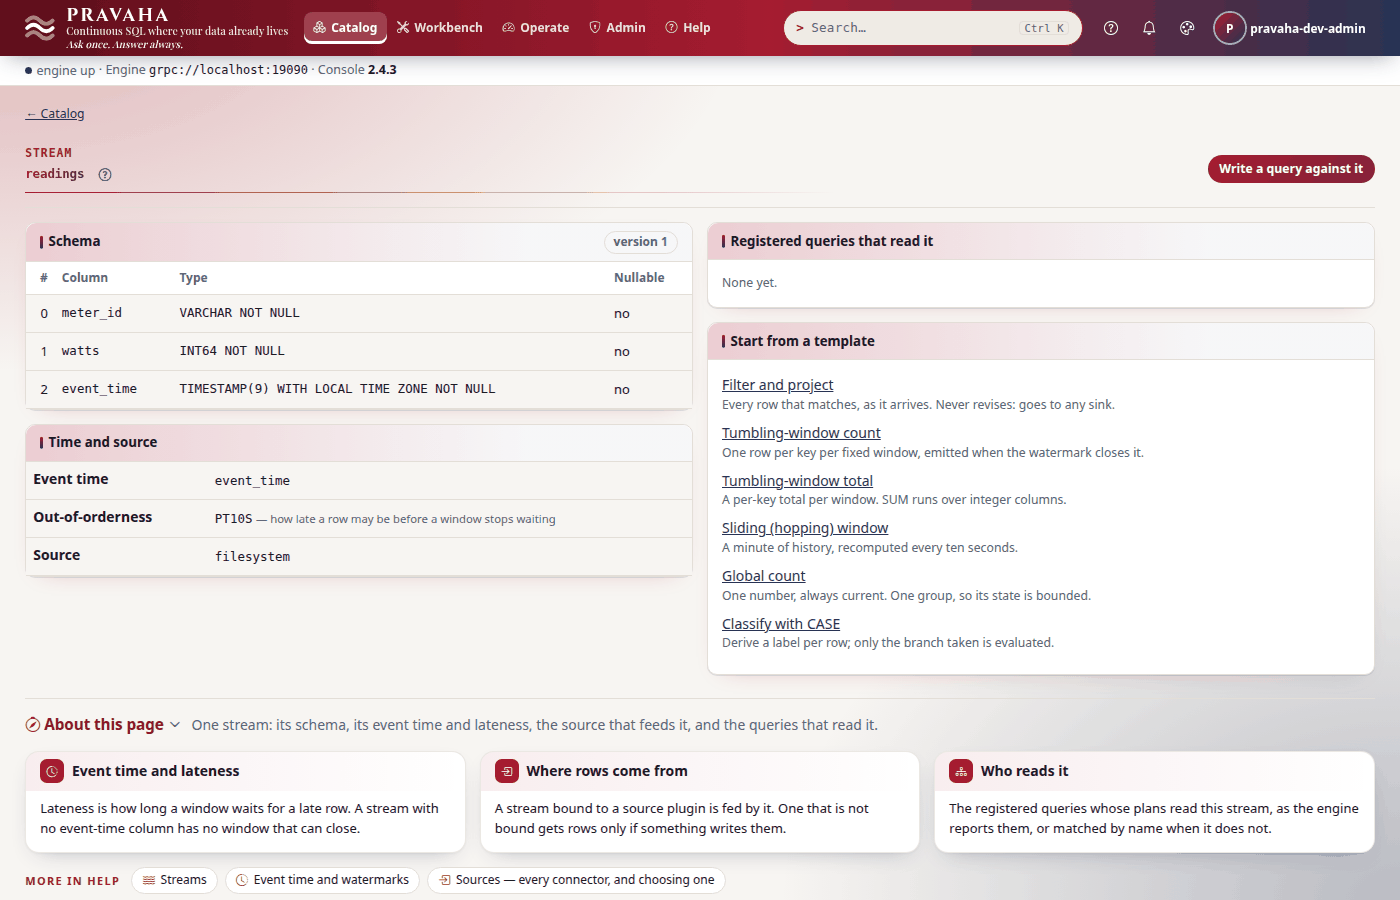
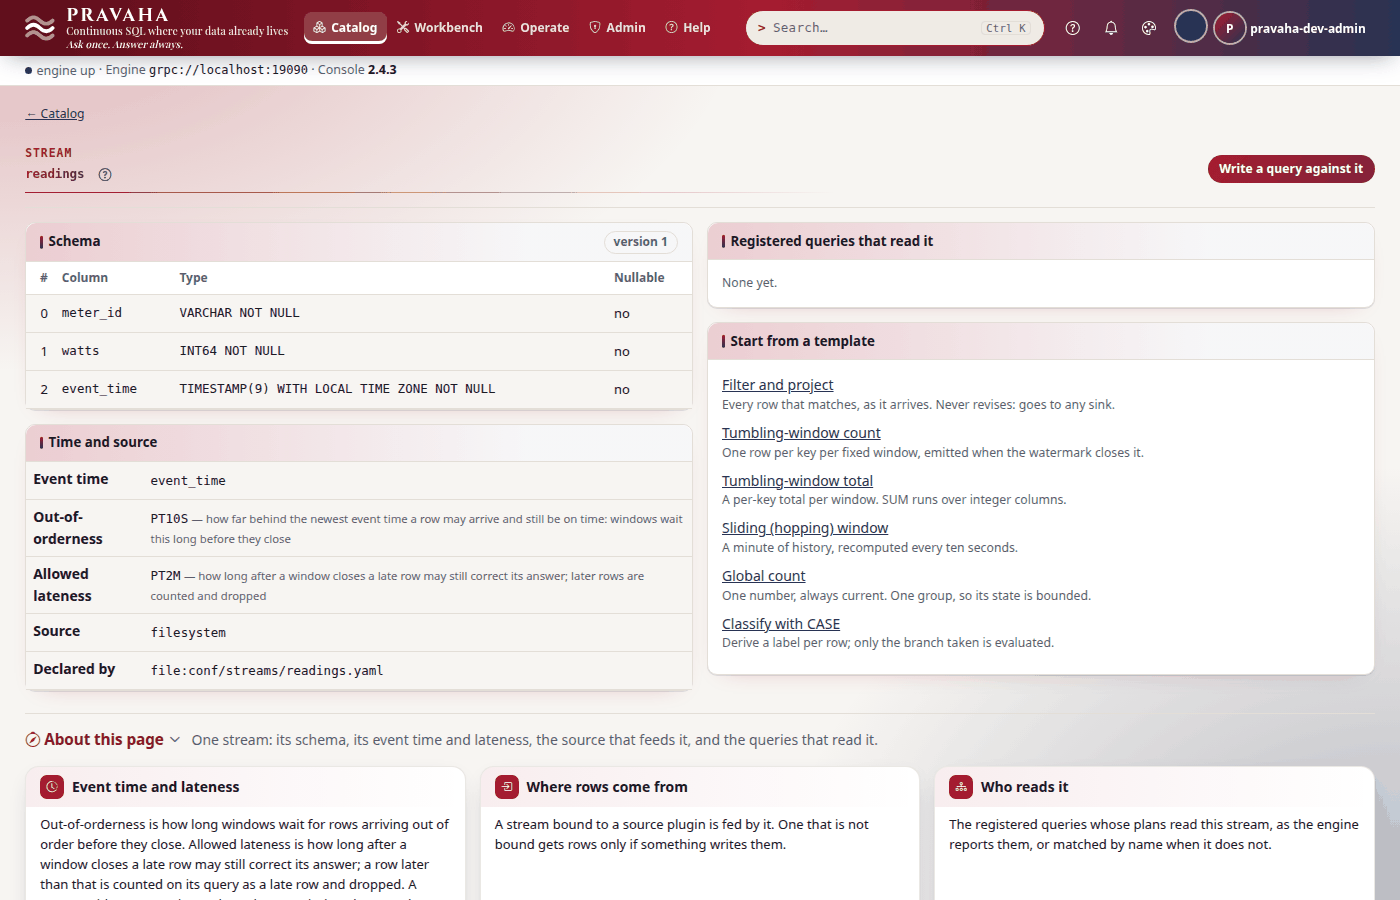
Tutorial 2: the stream and the append-only sink a file each, conf/streams/ and conf/sinks/; the stream page with its origin

diff --git a/sdk/python/tools/tutorials/t02.py b/sdk/python/tools/tutorials/t02.py
@@ -12,7 +12,9 @@ from tutorial_captures import Background, Cli, Http, Join, Node, Open, Sh, Snap,
 
 DOC = "02-windows-and-late-data.md"
 
-NODE = Node(config="t02/application.yaml", files=(
+NODE = Node(files=(
+    ("t02/streams", "conf/streams"),
+    ("t02/sinks", "conf/sinks"),
     ("t02/readings.csv", "data/incoming/readings.csv"),
     ("t02/meter_minute.sql", "meter_minute.sql"),
     ("t02/meter_rolling.sql", "meter_rolling.sql"),

diff --git a/docs/tutorials/02-windows-and-late-data.md b/docs/tutorials/02-windows-and-late-data.md
@@ -19,15 +19,16 @@ real node running these steps.
 
 - [Tutorial 1](01-first-15-minutes.md) done: you can start a node with `--spring.profiles.active=dev,users`,
   sign in, and export `PRAVAHA_TOKEN` and `PRAVAHA_INSECURE_TOKEN=true`.
-- The tutorial's files, in [data/t02/](data/t02/): `application.yaml` (the node's configuration),
-  `readings.csv` (twelve readings over two and a half minutes) and two queries, `meter_minute.sql`
-  and `meter_rolling.sql`.
+- The tutorial's files, in [data/t02/](data/t02/): the stream, `streams/readings.yaml`, and the sink,
+  `sinks/meter_log.yaml` — a file each, named after it, which the node reads from its `conf/streams/`
+  and `conf/sinks/` folders — `readings.csv` (twelve readings over two and a half minutes) and two
+  queries, `meter_minute.sql` and `meter_rolling.sql`.
 - A node home of its own for this tutorial, with the configuration and the data in place:
 
 ```bash
 export PRAVAHA_HOME=$HOME/pravaha-t02
 mkdir -p $PRAVAHA_HOME/conf $PRAVAHA_HOME/data/incoming
-cp docs/tutorials/data/t02/application.yaml $PRAVAHA_HOME/conf/
+cp -r docs/tutorials/data/t02/streams docs/tutorials/data/t02/sinks $PRAVAHA_HOME/conf/
 cp docs/tutorials/data/t02/readings.csv $PRAVAHA_HOME/data/incoming/
 bin/pravaha-server --spring.profiles.active=dev,users &
 cd docs/tutorials/data/t02            # the commands below read the .sql files from here
@@ -48,14 +49,11 @@ export PRAVAHA_TOKEN=$(pravaha login --user pravaha-dev-admin) PRAVAHA_INSECURE_
 The stream is declared with both settings:
 
 ```yaml
-# data/t02/application.yaml (the stream)
-pravaha:
-  streams:
-    readings:
-      schema: "meter_id:STRING,watts:INT64,event_time:TIMESTAMP"
-      event-time: event_time
-      out-of-orderness: 10s     # how long a window waits for stragglers before it is published
-      allowed-lateness: 2m      # how long after that a straggler may still correct what was published
+# conf/streams/readings.yaml (the stream; its source: block follows)
+schema: "meter_id:STRING,watts:INT64,event_time:TIMESTAMP"
+event-time: event_time
+out-of-orderness: 10s     # how long a window waits for stragglers before it is published
+allowed-lateness: 2m      # how long after that a straggler may still correct what was published
 ```
 
 <!-- capture: t02-describe -->
@@ -67,6 +65,8 @@ event time    event_time
 out of order  PT10S
 lateness      PT2M
 source        filesystem
+origin        file:conf/streams/readings.yaml
+not applied   -
 
 ORDINAL  NAME        TYPE                                        NULLABLE
 0        meter_id    VARCHAR NOT NULL                            no
@@ -85,7 +85,7 @@ stream readings: event-time=event_time, out-of-orderness=PT10S, allowed-lateness
 ```
 <!-- /capture -->
 
-![The stream page for readings: three columns (meter_id, watts, event_time), and under Time and source the event time event_time, out-of-orderness PT10S and the filesystem source](img/t02/01-stream.png)
+![The stream page for readings: three columns (meter_id, watts, event_time), and under Time and source the event time event_time, out-of-orderness PT10S, the filesystem source, and Declared by file:conf/streams/readings.yaml](img/t02/01-stream.png)
 
 The two settings divide every reading's fate in three:
 
@@ -382,7 +382,7 @@ The rule of thumb: the rows a window publishes × (allowed lateness ÷ slide) wi
 With no allowed lateness — the default — nothing is kept, because a fired window can never change.
 
 The second cost is downstream. A query that can correct its answer emits withdrawals, and an
-append-only sink cannot express one. The node binds `meter_log`, a CSV file, and refuses to point
+append-only sink cannot express one. The node binds `meter_log`, a CSV file (`conf/sinks/meter_log.yaml`), and refuses to point
 the corrected view at it, before anything is opened:
 
 <!-- capture: t02-sink-refused -->
